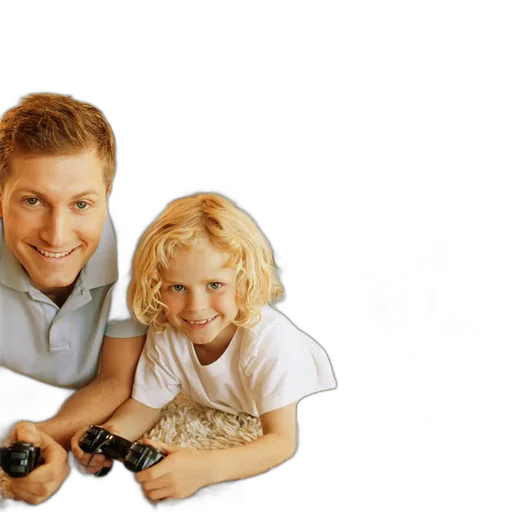
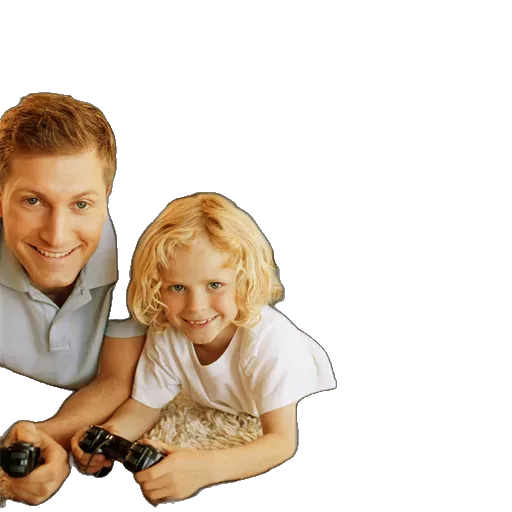
[3D-v3] TODO 3 ข้อเสร็จตามแม่: ① มุมภาพจริง 14 มุม ลาก 32px/มุม = หมุนรอบตัวต่อเนื่อง ② สินค้าทึบ (harden alpha + depthWrite + alphaTest .18) ③ แผงหยิบสลิม ตัด description (อยู่แค่ในการ์ดรูปจริง) — เวอร์จริง: ทึบ✓ สลิม✓ สลับมุม✓ วางกลับ✓

diff --git a/3d/products3d.js b/3d/products3d.js
@@ -82,7 +82,7 @@ const edgeMat = new THREE.MeshStandardMaterial({ color: 0x241c10, roughness: .22
 
 /* ---------- ตัวอย่างคัตเอาต์จริง (แม่ให้ pick 1 = ไฟลาวา 8 โหมด): ภาพสินค้าจริงตัดพื้นหลัง ยืนใน 3 มิติ ---------- */
 const CUTOUT_BY_ID = {
-  'flame-8mode': { handle: 'flame-aroma-diffuser-air-humidifier-ultr', order: ['img_13', 'img_04', 'img_09', 'img_02'] },
+  'flame-8mode': { handle: 'flame-aroma-diffuser-air-humidifier-ultr', order: ['img_13', 'img_04', 'img_09', 'img_02', 'img_01', 'img_03', 'img_06', 'img_08', 'img_10', 'img_11', 'img_12', 'img_14', 'img_15', 'img_17'] },
 };
 const cutoutCache = new Map();
 const cutoutLoader = new THREE.TextureLoader(); cutoutLoader.setCrossOrigin('anonymous');
@@ -109,7 +109,7 @@ function buildCutoutProduct(id) {
   const files = cfg.order.map(n => 'img/cutouts/' + cfg.handle + '_' + n + '.webp');
   const g = new THREE.Group();
   g.add(softShadow());
-  const mat = new THREE.SpriteMaterial({ transparent: true, depthWrite: false });
+  const mat = new THREE.SpriteMaterial({ transparent: true, depthWrite: true, alphaTest: .18, opacity: 1 });
   const sp = new THREE.Sprite(mat);
   const S = .34; sp.scale.set(S, S, 1); sp.position.y = S / 2 + .025;
   g.add(sp);

diff --git a/3d/index.html b/3d/index.html
@@ -94,14 +94,12 @@ body.en{font-family:'Inter','Prompt',sans-serif}
 <div id="joy"><div class="knob"></div></div>
 
 <div id="inspect">
-  <div class="top"><span class="tag" id="iTag"></span><h3 id="iTh"></h3><span class="en" id="iEn"></span><span class="price" id="iPrice"></span></div>
-  <div class="desc" id="iDesc"></div>
+  <div class="top"><h3 id="iTh"></h3><span class="en" id="iEn"></span><span class="price" id="iPrice"></span></div>
   <div class="row">
     <a id="iOrder" target="_blank" rel="noopener">🛒 <span id="iOrderT"></span></a>
     <button id="iPhoto">📷 <span id="iPhotoT"></span></button>
     <button id="iBack">⬇ <span id="iBackT"></span></button>
   </div>
-  <div class="note" id="iNote"></div>
 </div>
 
 <div id="modal"><div id="card">

diff --git a/3d/main.js b/3d/main.js
@@ -233,14 +233,10 @@ function showInspect(entry) {
   const p = entry.data;
   $('iTh').textContent = p.name_th; $('iEn').textContent = p.name_en;
   $('iPrice').textContent = T[lang].baht + p.price;
-  $('iDesc').textContent = (lang === 'th' ? p.desc_th : p.desc_en).slice(0, 120) + '…';
-  $('iTag').textContent = p.tag || (lang === 'th' ? T.th.tagFallback : T.en.tagFallback);
-  $('iTag').style.display = p.tag ? '' : 'none';
   $('iOrderT').textContent = T[lang].order;
   $('iOrder').href = STORE.line;
   $('iPhotoT').textContent = T[lang].photo;
   $('iBackT').textContent = T[lang].putback;
-  $('iNote').textContent = T[lang].note;
   $('inspect').classList.add('open');
 }
 function hideInspect() { $('inspect').classList.remove('open'); }

diff --git a/3d/pickup.js b/3d/pickup.js
@@ -39,7 +39,7 @@ export class PickupController {
     if (g.userData.isCutout) {
       if (g.userData.photoCount > 1 && g.userData.setPhoto) {
         this._acc += dx;
-        const step = 56;
+        const step = 32;   // ลากนุ่ม: ทุก 32px = มุมถัดไป (14 มุม = หมุนรอบตัวต่อเนื่อง)
         while (this._acc >= step) { g.userData._pi = ((g.userData._pi || 0) + 1) % g.userData.photoCount; g.userData.setPhoto(g.userData._pi); this._acc -= step; }
         while (this._acc <= -step) { g.userData._pi = ((g.userData._pi || 0) - 1 + g.userData.photoCount) % g.userData.photoCount; g.userData.setPhoto(g.userData._pi); this._acc += step; }
       }
